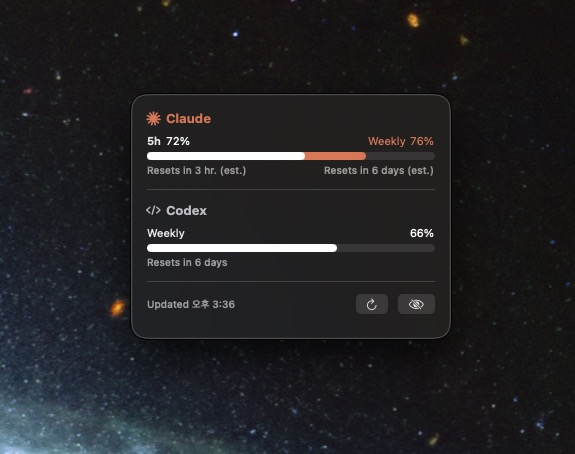
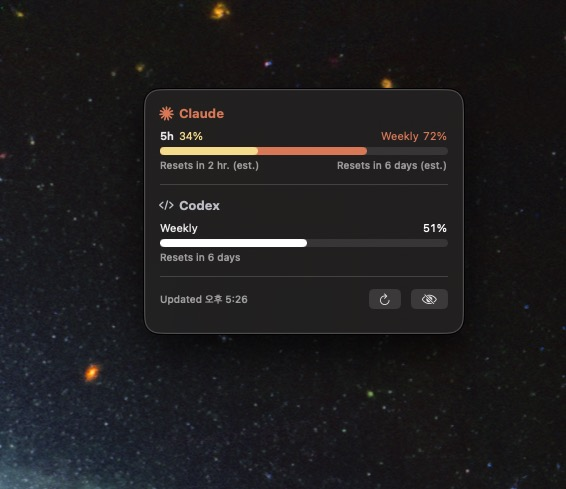
Show the provider mark and the 5-hour percentage in the small panel
The small row named the provider in text and showed only the weekly
number. It now carries the same mark the large view uses, at 10pt, with
the 5-hour percentage beside it and weekly on the right — matching the
large view's left-to-right order. Adds breathing room between the label
row and the gauge so the mark doesn't crowd it.

Applied to both platforms, and refreshes the README screenshots.

diff --git a/Sources/TokenGauge/ContentView.swift b/Sources/TokenGauge/ContentView.swift
@@ -109,14 +109,21 @@ private struct CompactRow: View {
     private var paired: (base: UsageWindow, overlay: UsageWindow)? { pairedWindows(snapshot) }
 
     var body: some View {
-        VStack(alignment: .leading, spacing: 3) {
-            HStack {
-                // Color only here — no mark or outline; at this size the row
-                // needs to stay compact.
-                Text(snapshot.provider.rawValue)
-                    .font(.caption.bold())
-                    .foregroundStyle(snapshot.provider.accentColor)
-                Spacer()
+        VStack(alignment: .leading, spacing: 5) {
+            HStack(spacing: 5) {
+                // The mark alone stands in for the provider's name here — at
+                // this size the accent color already tells the two apart, and
+                // dropping the word leaves the width to the gauge. Smaller
+                // than the large view's mark so it doesn't crowd the bar.
+                ProviderMark(provider: snapshot.provider, size: 10)
+                // The short window sits on the left and the long one on the
+                // right, the same way round as the large view's combined row.
+                if let overlay = paired?.overlay, let remaining = overlay.remainingPercent {
+                    Text("\(Int(remaining))%")
+                        .font(.caption.monospacedDigit())
+                        .foregroundStyle(UsagePalette.color(remaining: remaining, plenty: .primary))
+                }
+                Spacer(minLength: 6)
                 if let remaining = displayWindow?.remainingPercent {
                     Text("\(Int(remaining))%")
                         .font(.caption.monospacedDigit())
@@ -130,8 +137,7 @@ private struct CompactRow: View {
                         .foregroundStyle(.secondary)
                 }
             }
-            // Same nested bar shape as the large view: weekly as the bar,
-            // 5-hour capped at weekly's own extent and drawn over it.
+            // Same nested bar shape as the large view.
             if let paired {
                 NestedUsageBar(
                     base: paired.base,

diff --git a/windows/PotatokenHub/ProviderMark.cs b/windows/PotatokenHub/ProviderMark.cs
@@ -1,0 +1,61 @@
+using System.Windows;
+using System.Windows.Controls;
+using System.Windows.Media;
+using PotatokenHub.Core;
+
+namespace PotatokenHub;
+
+/// <summary>
+/// Small mark drawn in place of a provider's name. Hand-drawn approximations,
+/// not official brand assets — no logo files are bundled.
+/// </summary>
+public static class ProviderMark
+{
+    public static UIElement Create(Provider provider, double size)
+    {
+        var accent = new SolidColorBrush(UsagePalette.AccentFor(provider));
+
+        return provider == Provider.Claude
+            ? Burst(size, accent)
+            : CodeMark(size, accent);
+    }
+
+    /// <summary>Spokes radiating from a common center, like an asterisk.</summary>
+    private static UIElement Burst(double size, Brush brush)
+    {
+        const int spokes = 11;
+        var outer = size / 2;
+        var inner = outer * 0.16;
+        var center = new Point(outer, outer);
+
+        var geometry = new GeometryGroup();
+        for (var i = 0; i < spokes; i++)
+        {
+            var angle = (double)i / spokes * 2 * Math.PI - Math.PI / 2;
+            geometry.Children.Add(new LineGeometry(
+                new Point(center.X + Math.Cos(angle) * inner, center.Y + Math.Sin(angle) * inner),
+                new Point(center.X + Math.Cos(angle) * outer, center.Y + Math.Sin(angle) * outer)));
+        }
+
+        return new System.Windows.Shapes.Path
+        {
+            Data = geometry,
+            Stroke = brush,
+            StrokeThickness = size * 0.13,
+            StrokeStartLineCap = PenLineCap.Round,
+            StrokeEndLineCap = PenLineCap.Round,
+            Width = size,
+            Height = size,
+            VerticalAlignment = VerticalAlignment.Center,
+        };
+    }
+
+    private static UIElement CodeMark(double size, Brush brush) => new TextBlock
+    {
+        Text = "</>",
+        FontSize = size * 0.82,
+        FontWeight = FontWeights.SemiBold,
+        Foreground = brush,
+        VerticalAlignment = VerticalAlignment.Center,
+    };
+}

diff --git a/windows/PotatokenHub/PanelWindow.xaml.cs b/windows/PotatokenHub/PanelWindow.xaml.cs
@@ -252,15 +252,30 @@ public partial class PanelWindow : Window
         var paired = snapshot.PairedWindows();
         var display = paired?.Base ?? snapshot.Windows.FirstOrDefault();
 
-        var line = new Grid { Margin = new Thickness(0, 0, 0, 3) };
-        line.Children.Add(new TextBlock
+        var line = new Grid { Margin = new Thickness(0, 0, 0, 5) };
+
+        // The mark alone stands in for the provider's name at this size, with
+        // the short window's percentage beside it — the same left-to-right
+        // order as the large view.
+        var left = new StackPanel
         {
-            Text = snapshot.Provider.DisplayName(),
-            FontSize = 11,
-            FontWeight = FontWeights.SemiBold,
-            Foreground = new SolidColorBrush(accent),
+            Orientation = Orientation.Horizontal,
             HorizontalAlignment = HorizontalAlignment.Left,
-        });
+        };
+        left.Children.Add(ProviderMark.Create(snapshot.Provider, 10));
+        if (paired?.Overlay.RemainingPercent is { } overlayRemaining)
+        {
+            left.Children.Add(new TextBlock
+            {
+                Text = $"{(int)overlayRemaining}%",
+                FontSize = 11,
+                Margin = new Thickness(5, 0, 0, 0),
+                Foreground = new SolidColorBrush(UsagePalette.ColorFor(overlayRemaining, Colors.White)),
+                VerticalAlignment = VerticalAlignment.Center,
+            });
+        }
+        line.Children.Add(left);
+
         line.Children.Add(new TextBlock
         {
             Text = display is null ? "—" : Percent(display),
